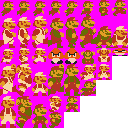
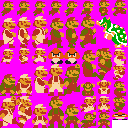
added mario pole effect, not complete yet

diff --git a/entities/effects/level_cleared.py b/entities/effects/level_cleared.py
@@ -1,0 +1,143 @@
+import pygame
+from entities.entity_manager import Entity
+from util import make_vector, mario_str_to_pixel_value_velocity as mstpvv
+from util import mario_str_to_pixel_value_acceleration as mstpva
+from util import world_to_screen
+from entities.characters.mario import MarioEffects
+from state.game_state import GameState, state_stack
+from animation import Animation, OneShotAnimation
+from util import world_to_screen
+from event.game_events import GameEvents, EventHandler
+import config
+import pygame
+from entities.entity_manager import Entity
+from util import make_vector, mario_str_to_pixel_value_velocity as mstpvv
+from util import mario_str_to_pixel_value_acceleration as mstpva
+from util import world_to_screen
+from event import EventHandler
+from state import state_stack
+from entities.entity import Layer
+import entities.characters.triggers.flag
+import entities.characters.mario
+import event.player_input
+
+"""
+Jumps on pole, left side
+flag slides down
+Mario switches side
+gets off pole, walks into castle
+"""
+
+
+class _FakeInput:
+    def __init__(self):
+        self.right = True
+        self.left, self.up, self.down, self.fire, self.jump, self.dash = False, False, False, False, False, False
+
+
+class LevelCleared(GameState):
+    FLAG_SLIDE_TIME = .75  # in seconds
+
+    def __init__(self, level, game_state):
+        super().__init__(GameEvents())
+
+        self.level = level
+        self.game_state = game_state
+
+        self._elapsed = 0.
+        self._applied_jump = False
+        self._velocity = make_vector(0, 0)
+        self._finished = False
+
+        # play clear music
+        pygame.mixer_music.load('sounds/music/smb_stage_clear.wav')
+        pygame.mixer_music.set_endevent(pygame.USEREVENT)
+
+        pygame.mixer_music.play()
+
+        #state_stack.top.game_events.register(self)
+        self.game_events.register(self)
+
+        # locate the pole
+        self.pole = self.level.entity_manager.search_by_type(entities.characters.triggers.flag.Flag)[0]
+
+        # hide mario
+        self.level.mario.enabled = False
+
+        # create another mario that we'll control ourselves
+        self.fake_input = event.player_input.PlayerInputHandler()
+        self.fake_mario = entities.characters.mario.Mario(_FakeInput(), self.level)
+        self.fake_mario.effects = self.level.mario.effects
+        self.fake_mario.enabled = False
+
+        # put a doppelganger where he would be on the pole
+        self.doppler = self._create_doppleganger(self.fake_mario)
+        self.doppler.position = make_vector(self.pole.position.x - self.doppler.rect.width // 3, self.level.mario.position.y)
+
+        # keep track of state
+        self.waiting = False
+
+    def update(self, dt):
+        self._elapsed += dt
+
+        if self._elapsed < LevelCleared.FLAG_SLIDE_TIME:
+            flag_ratio = self._elapsed / LevelCleared.FLAG_SLIDE_TIME
+            self.pole.set_flag_position(flag_ratio)
+        else:
+            if not self.waiting:
+                self.waiting = True
+
+                self.pole.set_flag_position(1.0)
+
+                # activate fake mario, drop him from the pole and make him move right
+                self.fake_input.right = True
+                self.fake_mario.position = make_vector(self.pole.position.x, self.doppler.position.y)
+                self.fake_mario.enabled = True
+
+                # now wait for fake mario to reach castle
+                # todo
+
+            self.fake_mario.update(dt, self.level.view_rect)
+
+    def draw(self, screen):
+        self.game_state.draw(screen)
+
+        if not self.waiting:
+            screen.blit(self.doppler.image, world_to_screen(self.doppler.position, self.level.view_rect))
+        else:
+            self.fake_mario.draw(screen, self.level.view_rect)
+
+    def _create_doppleganger(self, fake):
+        ca = self.level.asset_manager.character_atlas
+
+        if fake.effects & MarioEffects.Super:
+            # super variant
+            if fake.effects & MarioEffects.Fire:
+                return ca.load_static("super_mario_fire_pole_right")
+            elif fake.effects & MarioEffects.Star:
+                raise NotImplementedError
+            else:  # just super mario
+                return ca.load_static("super_mario_pole_right")
+        else:
+            # small variants
+            if fake.effects & MarioEffects.Fire:
+                return ca.load_static("mario_fire_pole_right")
+            elif fake.effects & MarioEffects.Star:
+                raise NotImplementedError
+            else:
+                return ca.load_static("mario_pole_right")
+
+    def handle_event(self, evt, game_events):
+        # only event we care about is the end of sound one
+        if evt.type == pygame.USEREVENT:
+            self._finished = True
+            pygame.mixer_music.set_endevent()
+            state_stack.top.game_events.unregister(self)
+            self.level.mario.input_state.reset()
+
+    @property
+    def finished(self):
+        return self._finished
+
+    def deactivated(self):
+        self.level.set_cleared()

diff --git a/entities/characters/triggers/flag.py b/entities/characters/triggers/flag.py
@@ -6,6 +6,8 @@ from util import world_to_screen
 from entities.entity import Layer
 from entities.gui.modal.modal_text_input import ModalTextInput
 from util import make_vector, rescale_vector
+from entities.effects.level_cleared import LevelCleared
+from state.game_state import state_stack
 
 
 class Flag(LevelEntity):
@@ -16,6 +18,9 @@ class Flag(LevelEntity):
         self.level = level
         self.mario = level.mario
         self.flag_offset = rescale_vector(make_vector(-13, 16))  # from top-left of pole
+        self.flag_movement = make_vector(0, 0)
+
+        self._pole_height = self.pole.get_rect().height - self.flag_offset.y - self.flag.height
 
         super().__init__(self.pole.get_rect())
 
@@ -24,13 +29,13 @@ class Flag(LevelEntity):
 
         if not self.level.cleared and self.mario.position.x + self.mario.rect.width > self.position.x:
             print("**** flag victory ****")
-            self.level.set_cleared()
+            state_stack.push(LevelCleared(self.level, state_stack.top))
 
     def draw(self, screen, view_rect):
         super().draw(screen, view_rect)
 
         screen.blit(self.pole.image, world_to_screen(self.position, view_rect))
-        screen.blit(self.flag.image, world_to_screen(self.position + self.flag_offset, view_rect))
+        screen.blit(self.flag.image, world_to_screen(self.position + self.flag_offset + self.flag_movement, view_rect))
 
     def destroy(self):
         self.level.entity_manager.unregister(self)
@@ -41,6 +46,9 @@ class Flag(LevelEntity):
     @property
     def layer(self):
         return Layer.Background
+
+    def set_flag_position(self, fpos):  # as a ratio
+        self.flag_movement = make_vector(0, fpos * self._pole_height)
 
 
 def make_flag(level, values):

diff --git a/entities/characters/triggers/mario_disabler.py b/entities/characters/triggers/mario_disabler.py
@@ -1,0 +1,54 @@
+from pygame import Rect
+import pygame
+from entities.characters import LevelEntity
+from ..behaviors import Interactive
+from util import world_to_screen
+from entities.entity import Layer
+from entities.gui.modal.modal_text_input import ModalTextInput
+from util import make_vector, rescale_vector
+from entities.effects.level_cleared import LevelCleared
+from state.game_state import state_stack
+from ..behaviors import Interactive
+
+
+class MarioDisabler(LevelEntity):
+    SIZE = (32, 32)
+
+    def __init__(self, level):
+        self.bulb = level.asset_manager.gui_atlas.load_static("bulb")
+        self.level = level
+
+        super().__init__(pygame.Rect(0, 0, *MarioDisabler.SIZE))
+
+        self.trigger = Interactive(level, self, (0, 0), (32, 32), self._on_hit_mario)
+
+    def _on_hit_mario(self):
+        print("disabler hit mario!")
+
+    def update(self, dt, view_rect):
+        pass
+
+    def draw(self, screen, view_rect):
+        super().draw(screen, view_rect)
+
+    def destroy(self):
+        self.level.entity_manager.unregister(self)
+
+    def create_preview(self):
+        return self.bulb.image.copy()
+
+    @property
+    def layer(self):
+        return Layer.Trigger
+
+
+def make_disabler(level, values):
+    disabler = MarioDisabler(level)
+
+    if values is not None:
+        disabler.deserialize(values)
+
+    return disabler
+
+
+LevelEntity.register_factory(MarioDisabler, make_disabler)

diff --git a/assets/load.py b/assets/load.py
@@ -159,6 +159,12 @@ def load_character_atlas():
     atlas.initialize_static_from_surface(
         "super_mario_fire_transform_left", pygame.transform.flip(atlas.load_static("super_mario_fire_transform_right").frames[0], True, False))
 
+    # pole moment
+    atlas.initialize_static("mario_pole_right", config.transparent_color)
+    atlas.initialize_static("fire_mario_pole_right", config.transparent_color)
+    atlas.initialize_static("super_mario_pole_right", config.transparent_color)
+    atlas.initialize_static("super_mario_fire_pole_right", config.transparent_color)
+
     # goomba enemy
     atlas.initialize_animation("goomba", small_frame_width, small_frame_height, .25, config.transparent_color)
     atlas.initialize_static("goomba_squashed", config.transparent_color)
@@ -234,6 +240,7 @@ def load_gui_atlas():
     atlas.initialize_static("level_warp")
     atlas.initialize_static("mm_Smb", **kwargs)
     atlas.initialize_static("menu_mushroom", **kwargs)
+    atlas.initialize_static("bulb", **kwargs)
 
     return atlas
 

diff --git a/event/player_input.py b/event/player_input.py
@@ -28,6 +28,13 @@ class PlayerInputHandler(EventHandler):
             304: self._dash  # left shift
         }
 
+    def reset(self):
+        self.left, self.right, self.up, self.down = False, False, False, False
+        self.jump, self.dash, self.fire = False, False, False
+        self.left_click, self.right_click = False, False
+        self.mouse_position = pygame.mouse.get_pos()
+        self.quit = False
+
     def handle_event(self, evt, game_events):
         if not EventHandler.is_consumed(evt) and (evt.type == KEYDOWN or evt.type == KEYUP):
             state = True if evt.type == KEYDOWN else False

diff --git a/entities/characters/mario.py b/entities/characters/mario.py
@@ -31,8 +31,8 @@ class Mario(LevelEntity):
                                                                     level.asset_manager.sounds['jump_super'])
 
         self._enabled = False
-        #self._active_effects = MarioEffects.Super
-        self._active_effects = MarioEffects.Small
+        self._active_effects = MarioEffects.Super
+        #self._active_effects = MarioEffects.Small
         self._invincibility_period = 0.
 
         #self.make_invincible(3000)

diff --git a/entities/effects/mario_transform_small.py b/entities/effects/mario_transform_small.py
@@ -68,6 +68,7 @@ class MarioTransformSmall(GameState):
         # the top-left coordinate of mario needs to be moved to account for a smaller sprite
         self.mario.position = self.mario.position + self._offset
         self.mario.enabled = True
+        self.mario.input_state.reset()
 
     def build_animation(self, duration, small, middle, large):
         frames = []

diff --git a/entities/effects/mario_transform_super.py b/entities/effects/mario_transform_super.py
@@ -80,6 +80,7 @@ class MarioTransformSuper(GameState):
         # the top-left coordinate of mario needs to be moved to account for a larger sprite
         self.mario.position = self.mario.position + self._offset
         self.mario.enabled = True
+        self.mario.input_state.reset()
 
     def build_animation(self, duration, small, middle, large):
         frames = []
